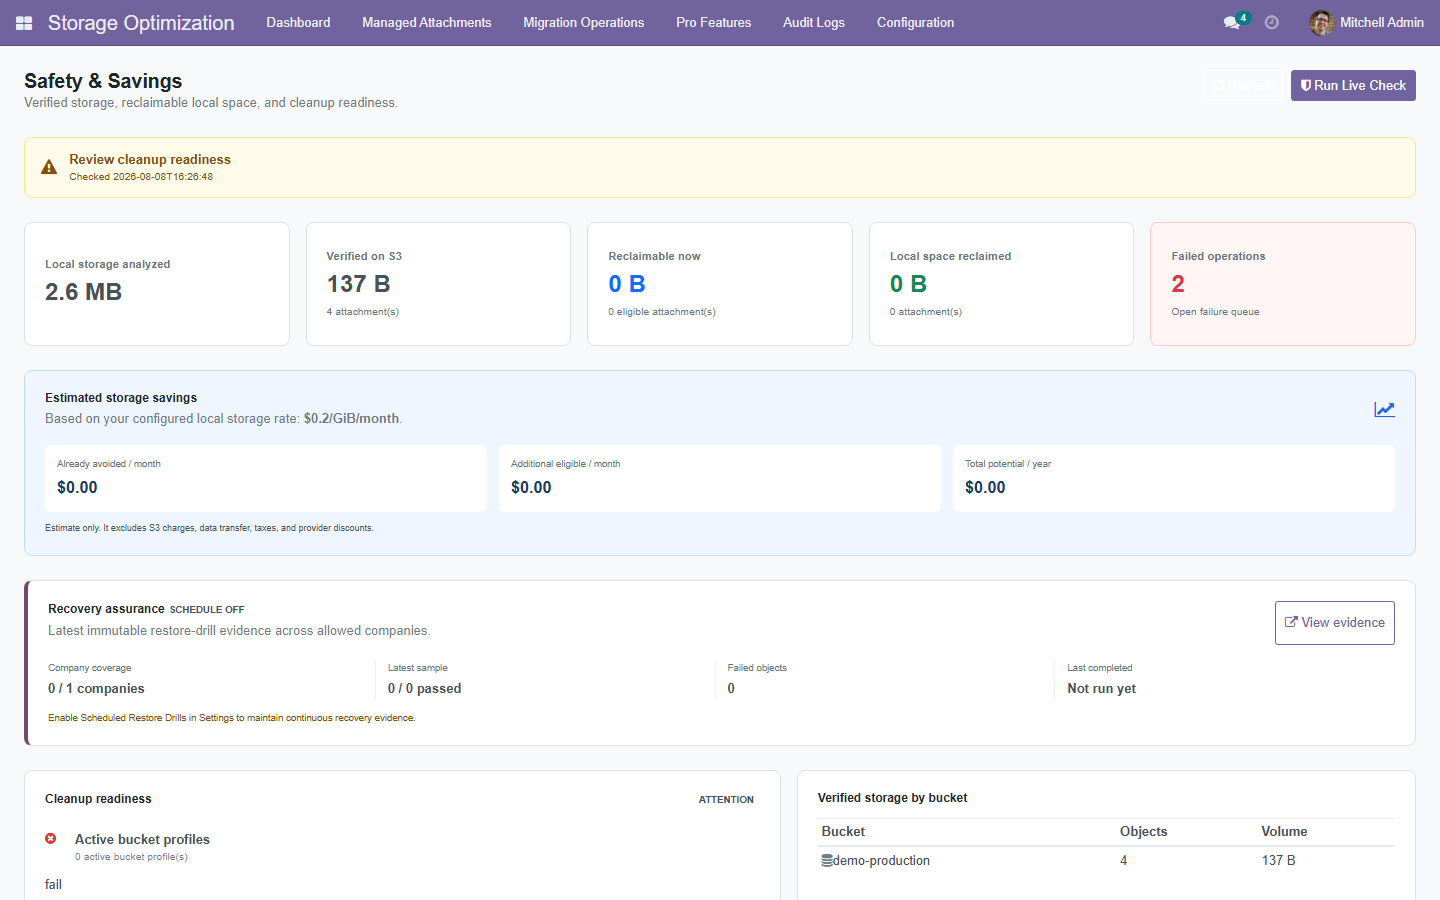
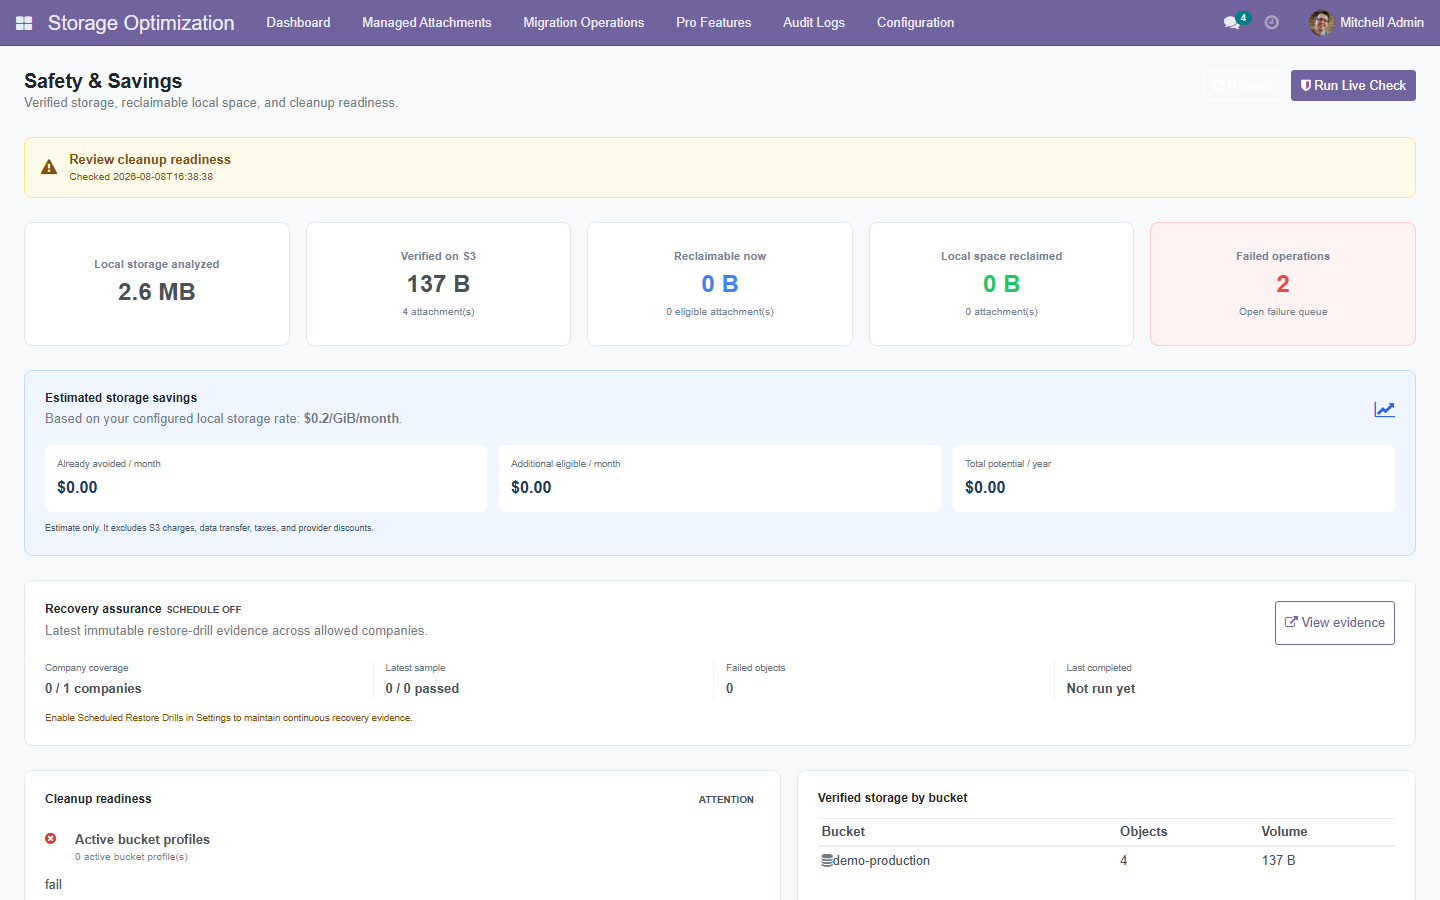
Align Pro dashboard visuals with Free

diff --git a/attachment_optimizer_pro/static/src/components/pro_dashboard/pro_dashboard.scss b/attachment_optimizer_pro/static/src/components/pro_dashboard/pro_dashboard.scss
@@ -1,10 +1,17 @@
 .o_pro_safety_dashboard {
     width: 100%;
+    max-width: none;
     margin: 0;
     padding: 24px;
     box-sizing: border-box;
     min-height: 100%;
     position: relative;
+}
+
+html .o_web_client .o_action_manager .o_pro_safety_dashboard {
+    width: 100%;
+    max-width: none;
+    margin: 0;
 }
 
 .o_pro_dashboard_header,
@@ -44,11 +51,12 @@
     min-width: 0;
     min-height: 124px;
     padding: 20px;
-    border: 1px solid #dee2e6;
+    border: 1px solid #e2e8f0;
     border-radius: 8px;
     background: var(--o-view-background-color, #fff);
     color: inherit;
-    text-align: left;
+    text-align: center;
+    align-items: center;
     display: flex;
     flex-direction: column;
     justify-content: center;
@@ -60,15 +68,15 @@
     font-variant-numeric: tabular-nums;
 }
 .o_pro_kpi_card small,
-.o_pro_kpi_label { color: var(--o-gray-600, #6c757d); }
+.o_pro_kpi_label { color: #718096; }
 .o_pro_kpi_label { font-size: .95rem; font-weight: 600; }
 .o_pro_kpi_action { cursor: pointer; transition: border-color .15s ease, box-shadow .15s ease; }
 .o_pro_kpi_action:hover,
 .o_pro_kpi_action:focus-visible { border-color: var(--o-brand-primary, #714b67); box-shadow: 0 0 0 3px rgba(113, 75, 103, .12); outline: 0; }
-.o_pro_kpi_primary strong { color: #0d6efd; }
-.o_pro_kpi_success strong { color: #198754; }
-.o_pro_kpi_danger { background: #fff5f5; border-color: #fecaca; }
-.o_pro_kpi_danger strong { color: #dc3545; }
+.o_pro_kpi_primary strong { color: #3b82f6; }
+.o_pro_kpi_success strong { color: #22c55e; }
+.o_pro_kpi_danger { background: #fef2f2; border-color: #fecaca; }
+.o_pro_kpi_danger strong { color: #ef4444; }
 
 .o_pro_savings_panel {
     margin-bottom: 24px;
@@ -104,8 +112,7 @@
 .o_pro_assurance_panel {
     margin-bottom: 24px;
     padding: 20px;
-    border: 1px solid #dee2e6;
-    border-left: 4px solid var(--o-brand-primary, #714b67);
+    border: 1px solid #e2e8f0;
     border-radius: 8px;
     background: var(--o-view-background-color, #fff);
 }
@@ -130,7 +137,7 @@
 .o_pro_assurance_hint { margin-top: 12px; color: #854d0e; font-size: .8rem; }
 .o_pro_assurance_error { color: #b42318; }
 .o_pro_dashboard_columns { display: grid; grid-template-columns: 1.1fr .9fr; gap: 16px; }
-.o_pro_panel { background: var(--o-view-background-color, #fff); border: 1px solid #dee2e6; border-radius: 8px; padding: 20px; }
+.o_pro_panel { background: var(--o-view-background-color, #fff); border: 1px solid #e2e8f0; border-radius: 8px; padding: 20px; }
 .o_pro_panel_header { align-items: center; margin-bottom: 12px; }
 .o_pro_check_list { display: flex; flex-direction: column; }
 .o_pro_check { display: grid; grid-template-columns: 20px 1fr; gap: 10px; padding: 10px 0; border-top: 1px solid #eef0f2; }

diff --git a/attachment_optimizer_pro/static/description/index.html b/attachment_optimizer_pro/static/description/index.html
@@ -96,6 +96,6 @@ For subsequent modules, update content inside sections only. Do not alter sectio
     </div>
 
     <!-- FOOTER -->
-    <div style="border:1px solid #e2e8f0; border-radius:16px; padding:32px 24px; margin:40px 0 16px; text-align:center;"><div style="font-size:14px; font-weight:700; color:#1e293b; text-transform:uppercase;">Attachment Optimizer Pro</div><p style="font-size:13px; color:#64748b; line-height:1.6;">Automated, verified S3-compatible attachment lifecycle management for Odoo.</p><div style="display:inline-block; border:2px solid #4f46e5; color:#4f46e5; font-weight:700; font-size:13px; padding:10px 28px; border-radius:8px;">US$49 · One-Time · No Subscription</div><p style="font-size:11px; color:#94a3b8; margin:20px 0 0;">Version 15.0.1.0.17 · Built and maintained by FoxPink</p></div>
+    <div style="border:1px solid #e2e8f0; border-radius:16px; padding:32px 24px; margin:40px 0 16px; text-align:center;"><div style="font-size:14px; font-weight:700; color:#1e293b; text-transform:uppercase;">Attachment Optimizer Pro</div><p style="font-size:13px; color:#64748b; line-height:1.6;">Automated, verified S3-compatible attachment lifecycle management for Odoo.</p><div style="display:inline-block; border:2px solid #4f46e5; color:#4f46e5; font-weight:700; font-size:13px; padding:10px 28px; border-radius:8px;">US$49 · One-Time · No Subscription</div><p style="font-size:11px; color:#94a3b8; margin:20px 0 0;">Version 15.0.1.0.18 · Built and maintained by FoxPink</p></div>
   </div>
 </section>

diff --git a/attachment_optimizer_pro/__manifest__.py b/attachment_optimizer_pro/__manifest__.py
@@ -1,6 +1,6 @@
 {
     "name": "Attachment Optimizer Pro",
-    "version": "15.0.1.0.17",
+    "version": "15.0.1.0.18",
     "category": "Storage",
     "summary": "Automation, cleanup, routing and lifecycle for S3-compatible attachment storage.",
     "description": """

diff --git a/README.md b/README.md
@@ -8,7 +8,7 @@ Only update product content, version, links, compatibility status, screenshots, 
 
 ![Attachment Optimizer Pro](attachment_optimizer_pro/static/description/preview.png)
 
-**Version:** 15.0.1.0.17 -- **License:** OPL-1 -- **Publisher:** FoxPink -- Maintained for **Odoo 15.0**
+**Version:** 15.0.1.0.18 -- **License:** OPL-1 -- **Publisher:** FoxPink -- Maintained for **Odoo 15.0**
 
 ---
 
